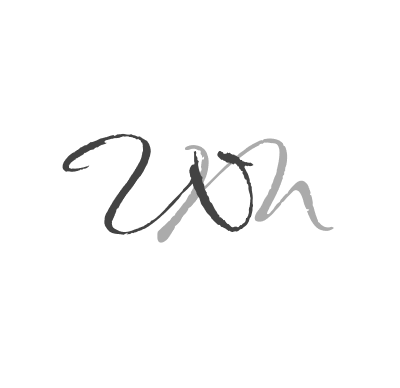
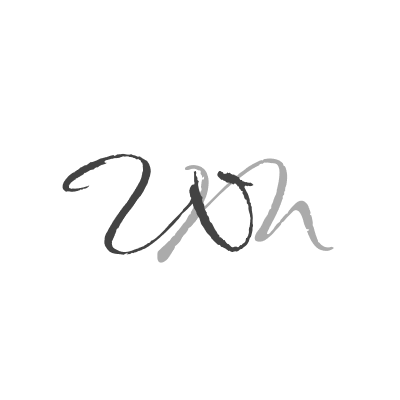
updated

Changed region(s): [[0.15, 0.3402, 0.84, 0.6804]]

diff --git a/css/style.css b/css/style.css
@@ -4,6 +4,9 @@ font-family: 'SF Pro Display', sans-serif;
 color: #434343;
 margin: 0;
 }
+h1 {
+  font-size: 40px;
+}
 h1 .h1color {
   color: #ABABAB;  
 }
@@ -23,13 +26,11 @@ img {
   border-radius: 5px;
   cursor:pointer;
 } */
-.logo {
-  height: 200px;
-  width: 200px;
-  outline: 1px solid red;
-}
+
 /* Welcome Section CSS */
 .welcome1 {
+  display: flex;
+  flex-direction: column;
   min-height: 100vh;
   margin-block: auto;
   position: relative;
@@ -38,7 +39,19 @@ img {
   outline: 1px solid red;
 }
 .logo-welcome {
-  padding-left: auto ;
+  display: flex;
+  flex-direction: column;
+  padding: 20px;
+  align-items: center;
+  justify-content: center;
+  outline: 1px solid red;
+}
+.logo {
+  height: 200px;
+  width: 200px;
+  border-radius: 180px;
+  -webkit-box-shadow: 5px 5px 15px 5px #000000; 
+  box-shadow: 5px 5px 15px 5px #000000;
   outline: 1px solid red;
 }
 

diff --git a/index.html b/index.html
@@ -22,7 +22,7 @@
 
     <div class="welcome1">
       <div class="logo-welcome">
-        <img class="logo" src="images/logoInitialsLight.png">
+        <img class="logo" src="images/Small=InitialsDefault.png">
         <h1>Wardrobe<span class="h1color">Mixer</span></h1>
       </div>
       <div class="welcome-buttons">
